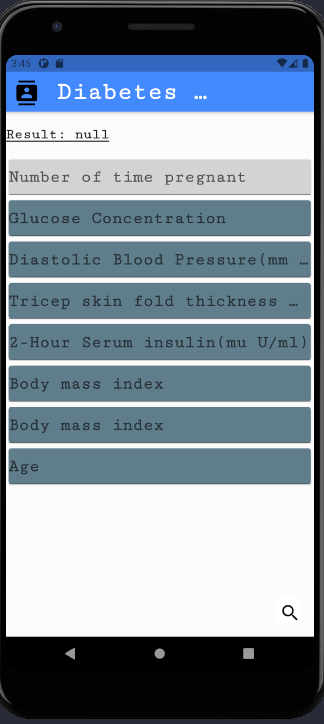
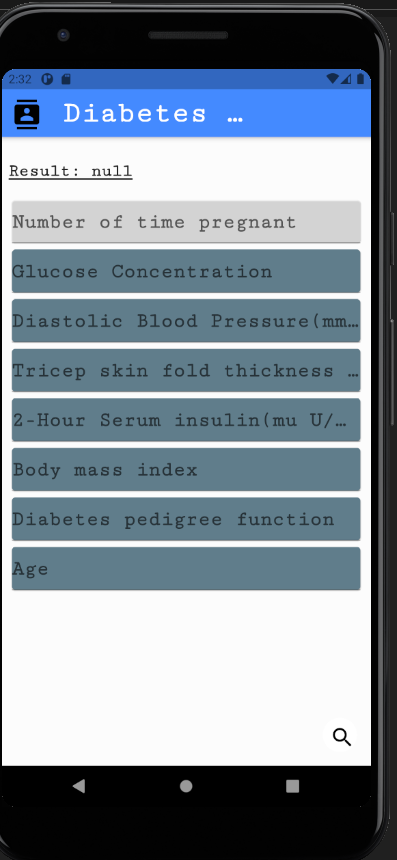
update

diff --git a/README.md b/README.md
@@ -1,1 +1,21 @@
-## Diabetes Predictor
+# Diabetes Predictor
+
+Diabetes Predictor is a Flutter App that is used to predict wether user has diabetes or not based on the input provided by user.
+
+![about](https://github.com/Nitesh-thapliyal/Diabetes-Predictor-App/blob/master/src/about.png)
+
+User inputs the value of:
+- Number of time pregnant
+- Diastolic Blood Pressure
+- Tricep skin fold thickness
+- 2-Hour Serum insulin
+- Body mass index
+- Diabetes pedigree function
+- Age
+
+![about](https://github.com/Nitesh-thapliyal/Diabetes-Predictor-App/blob/master/src/main.png)
+
+Tech Stack used: 
+- Frontend(Flutter, dart)
+- Backend (Deep Learning Model, python CGI)
+- Backend host ( AWS)
